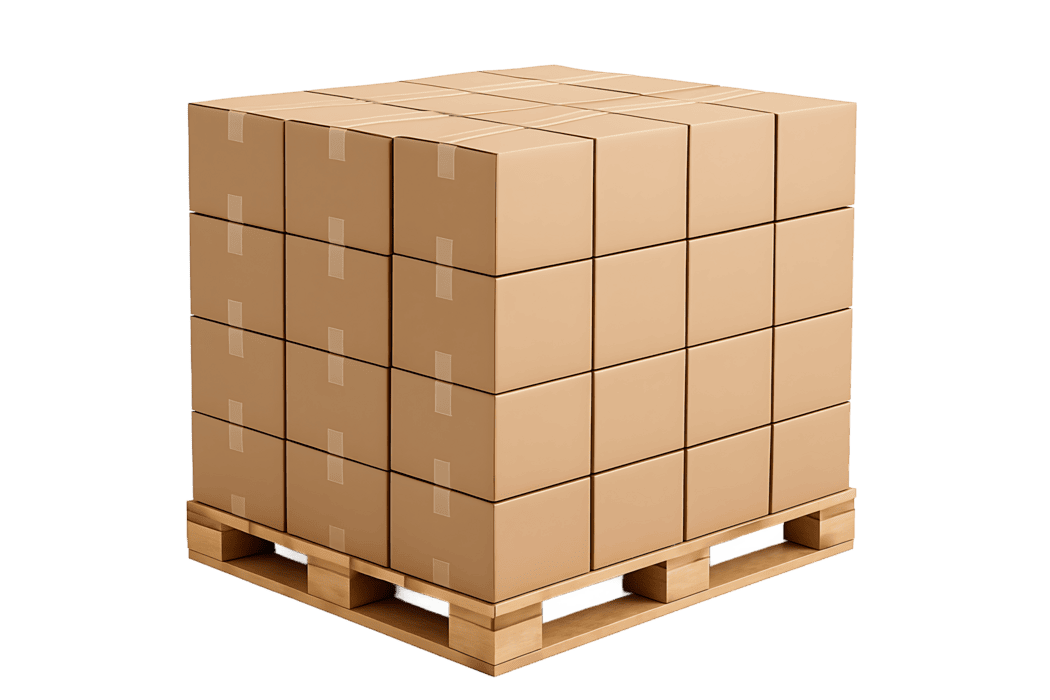
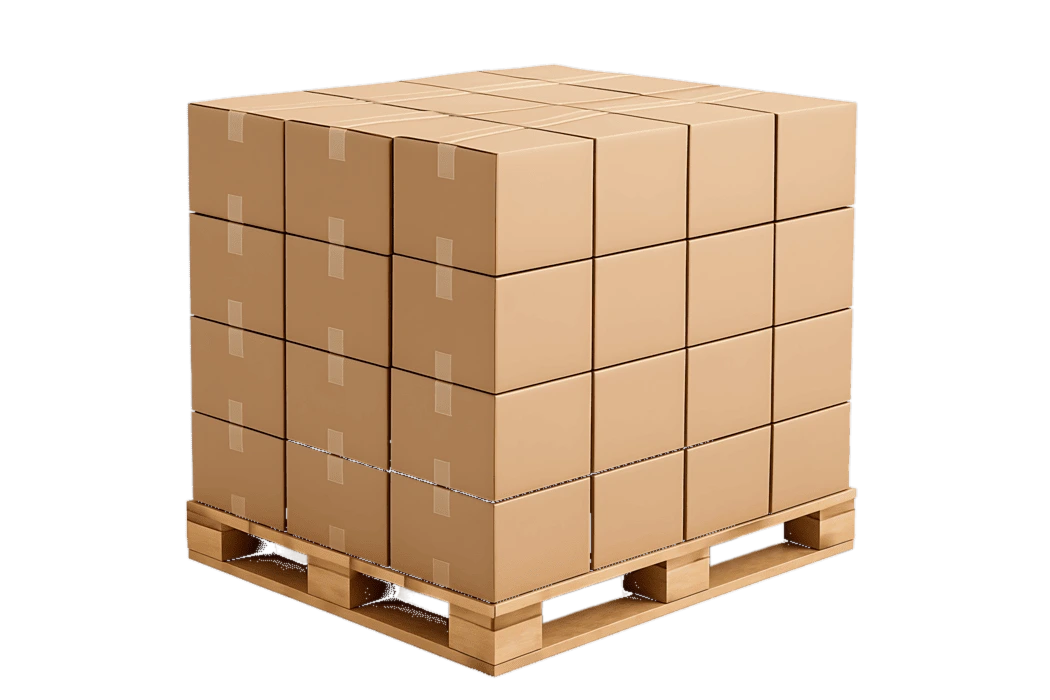
v2: sin sombra de piso horneada, sombra CSS coherente

diff --git a/v2/index.html b/v2/index.html
@@ -53,7 +53,7 @@ padding:12px 22px;border-radius:9px;border:1.5px solid transparent;transition:.2
 /* objeto hero: palet fotográfico con la marca impresa en perspectiva */
 #pobj{position:absolute;left:50%;top:50%;width:min(46vw,690px);
 transform:translate(-50%,-46%);will-change:transform}
-.pfall{position:relative;filter:drop-shadow(-60px 55px 38px rgba(16,28,38,.18))}
+.pfall{position:relative;filter:drop-shadow(-14px 26px 26px rgba(16,28,38,.13))}
 .pfall img{width:100%;height:auto;display:block}
 @media (prefers-reduced-motion:no-preference){
   .pfall{animation:pdrop 1.5s cubic-bezier(.16,1,.3,1) 1s both}
